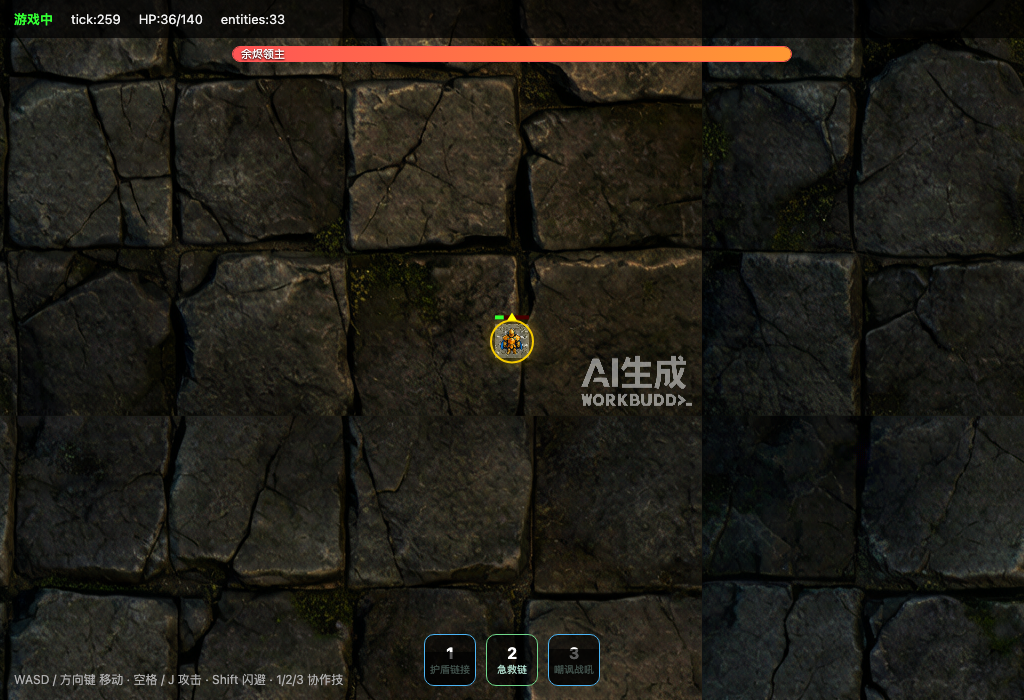
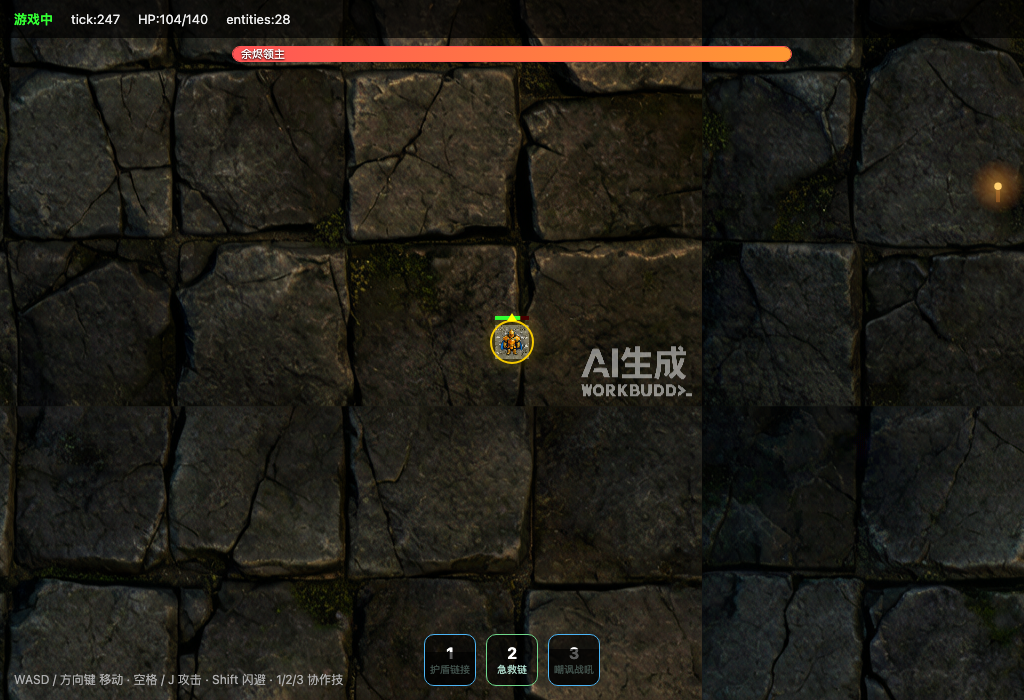
feat(games/dungeon-online): 客户端手感与氛围打磨（屏幕震动/飘字/装饰性火把/裂纹）
- 新增屏幕震动（受击/死亡）、浮动伤害/治疗数字、确定性世界装饰（火把/裂纹）。
- 修复 floor 与 entities 的镜头震动对齐。
- verify-client.mjs 真浏览器验证全绿（CoV 0.157，无报错）。

diff --git a/games/dungeon-online/apps/web-client/index.html b/games/dungeon-online/apps/web-client/index.html
@@ -106,6 +106,8 @@ let camX = 0, camY = 0;
 // co-op skill cooldown UI state (client-only estimate; authoritative gating is server-side)
 const SKILL_CD_MS = [12000, 10000, 14000];
 const skillCdUntil = [0, 0, 0];
+let shakeMag = 0;             // screen-shake magnitude (decays each frame)
+const floaters = [];          // floating damage/heal numbers {x,y,text,color,born,life}
 
 // ── sprite / art assets ──
 const SPRITE_SRC = {
@@ -317,13 +319,17 @@ function handleSnapshot(msg) {
     }
   }
 
-  // ── damage / death / pickup event tracking (drives flash + SFX) ──
+  // ── damage / death / pickup event tracking (drives flash + SFX + juice) ──
   for (const e of msg.entities) {
     const prev = hpPrev.get(e.id);
     if (prev != null && e.hp < prev) {
+      const dmg = prev - e.hp;
       flash.set(e.id, performance.now() + 130);
-      const n = performance.now();
-      if (n - lastHitSfx > 60) { sfxHit(); lastHitSfx = n; }
+      floaters.push({ x: e.pos.x, y: e.pos.y - 12, text: '-' + dmg, color: '#ff5a5a', born: performance.now(), life: 750 });
+      if (e.id === localEntityId) { shakeMag = Math.max(shakeMag, 7); sfxHit(); }
+      else { const n = performance.now(); if (n - lastHitSfx > 60) { sfxHit(); lastHitSfx = n; } }
+    } else if (prev != null && e.hp > prev) {
+      floaters.push({ x: e.pos.x, y: e.pos.y - 12, text: '+' + (e.hp - prev), color: '#5dff8a', born: performance.now(), life: 750 });
     }
     hpPrev.set(e.id, e.hp);
   }
@@ -336,6 +342,7 @@ function handleSnapshot(msg) {
   }
   if (deathHappened) {
     const n = performance.now();
+    shakeMag = Math.max(shakeMag, 5);
     if (n - lastDeathSfx > 120) { sfxDeath(); lastDeathSfx = n; }
   }
   if (lootGone) sfxPickup();
@@ -510,6 +517,54 @@ function drawLoot(e, x, y, snap) {
   ctx.restore();
 }
 
+// ── deterministic decorative world props (cosmetic; no sim dependency) ──
+function hash2(x, y) {
+  let h = (Math.imul(x | 0, 374761393) + Math.imul(y | 0, 668265263)) ^ 0x9e3779b9;
+  h = Math.imul(h ^ (h >>> 13), 1274126177);
+  return (h ^ (h >>> 16)) >>> 0;
+}
+function drawDecor(camX, camY) {
+  const T = 256;
+  const x0 = Math.floor((camX - canvas.width / 2) / T) * T;
+  const y0 = Math.floor((camY - canvas.height / 2) / T) * T;
+  for (let gx = x0; gx < camX + canvas.width / 2 + T; gx += T) {
+    for (let gy = y0; gy < camY + canvas.height / 2 + T; gy += T) {
+      const h = hash2(gx, gy);
+      if (h % 7 === 0) {
+        const fx2 = gx + 40, fy2 = gy + 40;
+        const flick = 0.6 + 0.4 * Math.sin(performance.now() / 120 + h);
+        ctx.save();
+        ctx.fillStyle = '#5a3a1a'; ctx.fillRect(fx2 - 2, fy2, 4, 12);
+        const grd = ctx.createRadialGradient(fx2, fy2 - 4, 2, fx2, fy2 - 4, 28);
+        grd.addColorStop(0, 'rgba(255,174,66,0.5)');
+        grd.addColorStop(1, 'rgba(255,120,40,0)');
+        ctx.fillStyle = grd; ctx.beginPath(); ctx.arc(fx2, fy2 - 4, 28, 0, Math.PI * 2); ctx.fill();
+        ctx.fillStyle = '#ffcf6e'; ctx.beginPath(); ctx.arc(fx2, fy2 - 4, 3 + flick, 0, Math.PI * 2); ctx.fill();
+        ctx.restore();
+      } else if (h % 11 === 0) {
+        ctx.save(); ctx.strokeStyle = 'rgba(0,0,0,0.35)'; ctx.lineWidth = 2;
+        ctx.beginPath(); ctx.moveTo(gx + 24, gy + 24); ctx.lineTo(gx + 48, gy + 56); ctx.lineTo(gx + 36, gy + 88); ctx.stroke(); ctx.restore();
+      }
+    }
+  }
+}
+
+function drawFloaters() {
+  const now = performance.now();
+  ctx.save();
+  ctx.textAlign = 'center';
+  ctx.font = 'bold 14px system-ui';
+  for (let i = floaters.length - 1; i >= 0; i--) {
+    const f = floaters[i];
+    const t = (now - f.born) / f.life;
+    if (t >= 1) { floaters.splice(i, 1); continue; }
+    ctx.globalAlpha = 1 - t;
+    ctx.fillStyle = f.color;
+    ctx.fillText(f.text, f.x, f.y - t * 26);
+  }
+  ctx.restore();
+}
+
 function drawCircleFallback(e, x, y, snap) {
   const isLocal = e.id === localEntityId;
   const isPlayer = e.kind === 0;
@@ -662,14 +717,19 @@ function draw() {
   const targetCamY = predicted ? predicted.y : (authEnt ? authEnt.pos.y : camY);
   camX += (targetCamX - camX) * 0.18;
   camY += (targetCamY - camY) * 0.18;
+  // screen shake (juice)
+  const sx = (Math.random() * 2 - 1) * shakeMag;
+  const sy = (Math.random() * 2 - 1) * shakeMag;
+  shakeMag *= 0.88; if (shakeMag < 0.2) shakeMag = 0;
+  const rcx = camX + sx, rcy = camY + sy;
 
   const localHp = authEnt ? `${authEnt.hp ?? 0}/${authEnt.maxHp ?? 0}` : '-';
   hpEl.textContent = `HP:${localHp}`;
 
   // ── floor (world-space tiled pattern, scrolls with camera) ──
   ctx.save();
-  ctx.translate(canvas.width / 2 - camX, canvas.height / 2 - camY);
-  const fx = camX - canvas.width / 2 - 64, fy = camY - canvas.height / 2 - 64;
+  ctx.translate(canvas.width / 2 - rcx, canvas.height / 2 - rcy);
+  const fx = rcx - canvas.width / 2 - 64, fy = rcy - canvas.height / 2 - 64;
   const fw = canvas.width + 128, fh = canvas.height + 128;
   if (floorPattern) {
     ctx.fillStyle = floorPattern;
@@ -678,11 +738,12 @@ function draw() {
     ctx.fillStyle = '#1a1a1a';
     ctx.fillRect(fx, fy, fw, fh);
   }
+  drawDecor(rcx, rcy);
   ctx.restore();
 
   // ── entities (camera-centered world space) ──
   ctx.save();
-  ctx.translate(canvas.width / 2 - camX, canvas.height / 2 - camY);
+  ctx.translate(canvas.width / 2 - rcx, canvas.height / 2 - rcy);
 
   // telegraphs under sprites
   for (const e of snap.entities) {
@@ -698,6 +759,7 @@ function draw() {
   for (const e of snap.entities) {
     if (e.kind === 6) { const p = renderPosFor(e); drawLoot(e, p.x, p.y, snap); }
   }
+  drawFloaters();
 
   ctx.restore();
   // WEB-FEEL：每帧上报移动输入（≈60Hz），确保权威模拟每个 tick 都收到 MOVE →
